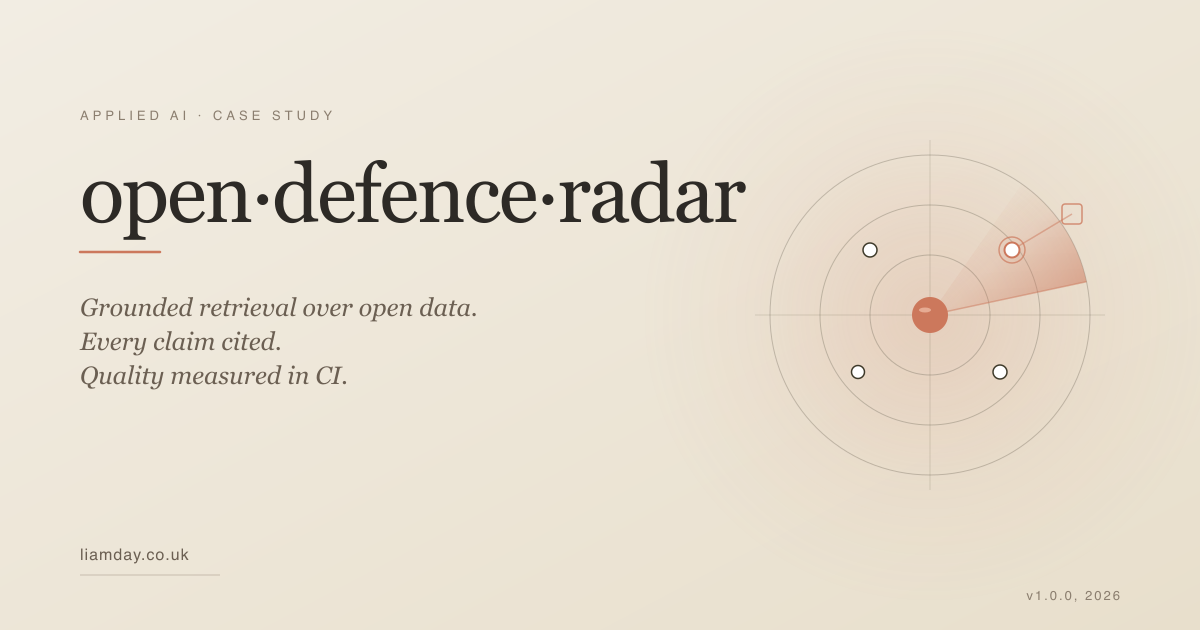
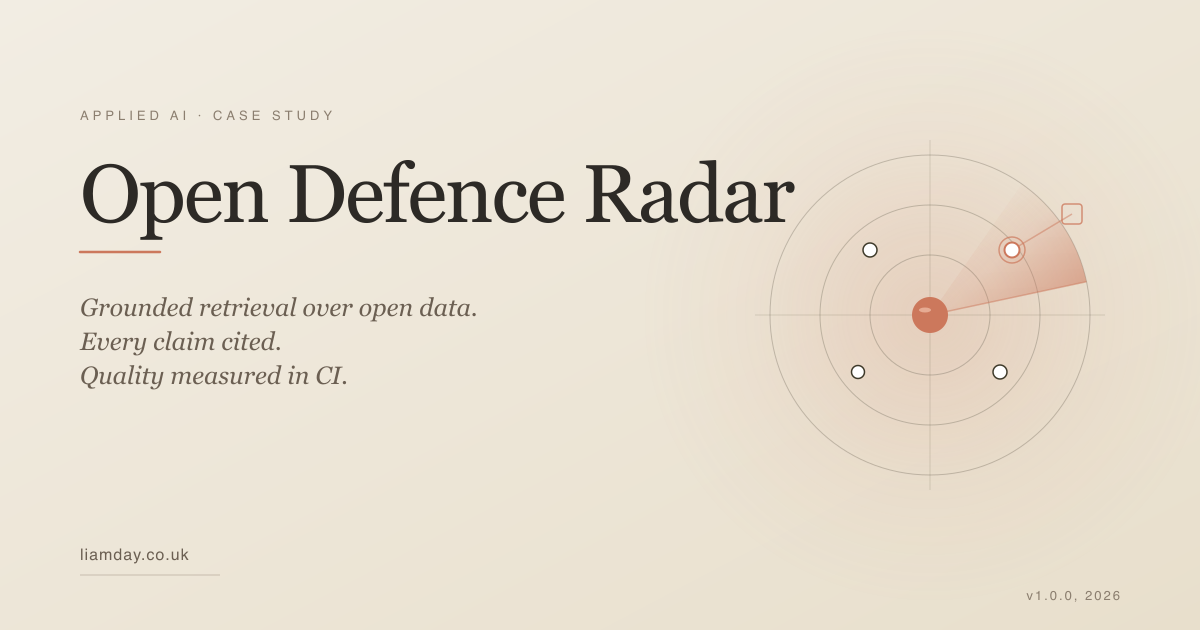
Present open-defence-radar as "Open Defence Radar" across the site
Apply the display / repo / CLI naming split to the case study and
project card. Use the full title-case name "Open Defence Radar" in
all user-facing copy: page title and meta description, hero alt text,
the three prose mentions, the showcase card name and summary, the four
SVG accessibility titles, and the OG social-card wordmark. Keep the
hyphenated "open-defence-radar" only for the repo URL, the
/projects/ route, the include, and asset filenames; keep "odr" for
CLI references in prose and the architecture diagram. Regenerate the OG
card PNG + WebP from the updated SVG (rsvg-convert at 1200x630 + cwebp).

Changed region(s): [[0.0617, 0.2413, 0.6783, 0.3921]]

diff --git a/_projects/open-defence-radar.md b/_projects/open-defence-radar.md
@@ -1,6 +1,6 @@
 ---
-title: open-defence-radar
-description: An applied-AI case study on open-defence-radar, a grounded retrieval engine over open UK defence-and-security data. Every answer cites its sources, and quality is measured in CI rather than asserted. Documents the eval-gated decision to leave a reranker switched off.
+title: Open Defence Radar
+description: An applied-AI case study on Open Defence Radar, a grounded retrieval engine over open UK defence-and-security data. Every answer cites its sources, and quality is measured in CI rather than asserted. Documents the eval-gated decision to leave a reranker switched off.
 summary: A clearance-safe retrieval system over open government data, exposed as an MCP tool, a CLI, and a web console. Every claim traces to a fetched, licensed source, and a CI-gated evaluation harness holds retrieval and grounding to a floor on every commit.
 role: Architect and engineer (AI-paired)
 year: 2026
@@ -12,7 +12,7 @@ image: /assets/images/projects/open-defence-radar-og-card.png
 hero_image: /assets/images/projects/open-defence-radar-hero.svg
 hero_image_width: 1600
 hero_image_height: 800
-hero_image_alt: "open-defence-radar mark: a radar scope with range rings, an ember sweep, and two signal blips tethered to their source markers."
+hero_image_alt: "Open Defence Radar mark: a radar scope with range rings, an ember sweep, and two signal blips tethered to their source markers."
 nav:
   - id: lede
     label: What it does
@@ -38,7 +38,7 @@ links:
 ## What it does
 {: #lede .scroll-mt-32 }
 
-open-defence-radar answers questions about UK defence and security using only open, published data, and it shows its working.
+Open Defence Radar answers questions about UK defence and security using only open, published data, and it shows its working.
 
 You ask a question. It retrieves the relevant passages from public procurement notices, tenders, and government announcements, synthesises an answer, and attaches a citation to every claim. Each citation resolves to a fetched, licensed record: the source, the date, the title, the URL. If nothing in the ingested data supports an answer, it says so rather than inventing one.
 
@@ -61,7 +61,7 @@ Language models have quietly become the first draft of analysis. Ask one a quest
 
 For anything decision-shaped, a fluent answer with no source is worse than no answer. It invites a trust it has not earned, and the cost of acting on a confident hallucination is paid downstream, by whoever assumed the machine had done the reading. The bottleneck in applied AI is no longer generation. It is grounding: can you trust the output, and can you prove it.
 
-So the product question is narrow and unglamorous. Can you build a system that answers from a real corpus, shows its working on every claim, says so plainly when the evidence is not there, and keeps proving it does all of that on every change. open-defence-radar is that system, built end to end with the messy parts left in.
+So the product question is narrow and unglamorous. Can you build a system that answers from a real corpus, shows its working on every claim, says so plainly when the evidence is not there, and keeps proving it does all of that on every change. Open Defence Radar is that system, built end to end with the messy parts left in.
 
 One constraint shaped every decision: it had to be useful in a defence and security context and safe to build and share in the open. So, open sources only, analytic rather than operational, nothing that could resolve to a person, a site, or an operation. That reads like a limitation. It is the opposite. It forced provenance, honesty about what the data can and cannot say, and the kind of data-governance discipline any serious deployment has to do anyway.
 
@@ -133,4 +133,4 @@ The curated evaluation set is deliberately small. It proves the harness and gate
 
 Claim segmentation at synthesis time is a heuristic, not a real claim extractor. It catches the cheap failures honestly, and it is upgradeable.
 
-open-defence-radar is a deliberately small answer to a large and generic problem: how do you make an AI system you can actually trust over data where being wrong is expensive. The answer it argues for is the same one I would bring to that problem at scale. Ground every claim in a source. Measure quality continuously rather than asserting it. Refuse rather than guess. Resist the complexity the numbers do not justify. The domain here is open defence data; the discipline travels to anywhere the output has to be believed.
+Open Defence Radar is a deliberately small answer to a large and generic problem: how do you make an AI system you can actually trust over data where being wrong is expensive. The answer it argues for is the same one I would bring to that problem at scale. Ground every claim in a source. Measure quality continuously rather than asserting it. Refuse rather than guess. Resist the complexity the numbers do not justify. The domain here is open defence data; the discipline travels to anywhere the output has to be believed.